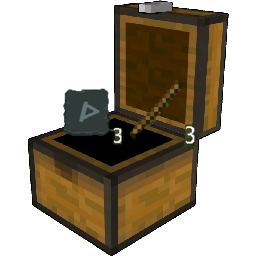
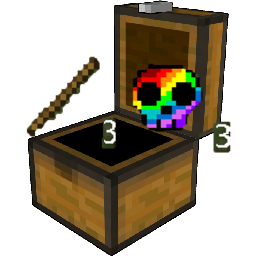
Added so that you can deliver items to chest and then opens door.

Changed region(s): [[0.0938, 0.2188, 0.8125, 0.5938], [0.8125, 0.4688, 0.9062, 0.625]]

diff --git a/src/Game/Entities/Statics/Chest.java b/src/Game/Entities/Statics/Chest.java
@@ -2,6 +2,7 @@ package Game.Entities.Statics;
 
 import Game.Entities.Creatures.Player;
 import Game.GameStates.State;
+import Game.Items.Item;
 import Main.Handler;
 import Resources.Images;
 import Worlds.BaseWorld;
@@ -21,7 +22,12 @@ public class Chest extends StaticEntity {
 
     private BaseWorld world;
     
-    BufferedImage chestStateImage;
+    private BufferedImage chestStateImage;
+    public static int skullsPicked = 0;
+    public static int stickesPicked = 0;
+    public static boolean ePressedStatic = false;
+    public static boolean completedQuest = false;
+    
 
     public Chest(Handler handler, float x, float y,BaseWorld world) {
         super(handler, x, y, 80, 125);
@@ -29,8 +35,8 @@ public class Chest extends StaticEntity {
         health=10000000;
         bounds.x=0;
         bounds.y=0;
-        bounds.height = 80;
         bounds.width = 125;
+        bounds.height = 80;
         
 
         ir.width = bounds.width;
@@ -50,43 +56,53 @@ public class Chest extends StaticEntity {
         if(isBeinghurt()){
         		chestStateImage = Images.openedChest;
             setHealth(10000000);
+            handler.getWorld().getEntityManager().getPlayer().itemsToChest();
+            
         }
 
         if(handler.getKeyManager().attbut){
             EP=true;
+            ePressedStatic = true;
 
         }else if(!handler.getKeyManager().attbut){
             EP=false;
+            ePressedStatic = false;
         }
         
+        if ((skullsPicked >= 3) && (stickesPicked) >=3) {
+        		completedQuest = true;
+        }
         
     }
+    
 
     @Override
     public void render(Graphics g) {
     		g.drawImage(chestStateImage,(int)(x-handler.getGameCamera().getxOffset()),(int)(y-handler.getGameCamera().getyOffset()),width,height,null);
-        checkForPlayer(g, handler.getWorld().getEntityManager().getPlayer());
+//        checkForPlayer(g, handler.getWorld().getEntityManager().getPlayer());
         if (chestStateImage == Images.openedChest) {
         		g.setColor(Color.BLACK);
-        		g.setFont(new Font("TimesRoman", Font.BOLD, 20));
-    			g.drawString("THESE ITEMS NEEDED:",(int)(x-handler.getGameCamera().getxOffset()-40),(int)(y-handler.getGameCamera().getyOffset()-10));
+        		g.setFont(new Font("Lucida", Font.BOLD, 20));
+    			g.drawString("Sticks:" + stickesPicked + "\nSkulls:" + skullsPicked,(int)(x-handler.getGameCamera().getxOffset()-10),(int)(y-handler.getGameCamera().getyOffset()-30));
+    			g.drawString("Items needed:",(int)(x-handler.getGameCamera().getxOffset()),(int)(y-handler.getGameCamera().getyOffset()-10));
         }
     }
 
-    private void checkForPlayer(Graphics g, Player p) {
-        Rectangle pr = p.getCollisionBounds(0,0);
-
-        if(ir.contains(pr) && !EP){
-            g.drawImage(Images.E,(int) x+width,(int) y+10,32,32,null);
-        }else if(ir.contains(pr) && EP){
-            g.drawImage(Images.EP,(int) x+width,(int) y+10,32,32,null);
-            g.drawImage(Images.loading,0,0,800,600,null);
-            handler.setWorld(world);
-
-        }
-
-
-    }
+//    private void checkForPlayer(Graphics g, Player p) {
+//        Rectangle pr = p.getCollisionBounds(0, 0);
+//
+//        if(ir.contains(pr) && !EP){
+//        		System.out.println("test");
+//            g.drawImage(Images.E,(int) x+width,(int) y+10,32,32,null);
+//        }else if(ir.contains(pr) && EP){
+//            g.drawImage(Images.EP,(int) x+width,(int) y+10,32,32,null);
+//            g.drawImage(Images.loading,0,0,800,600,null);
+//            handler.setWorld(world);
+//
+//        }
+//
+//
+//    }
 
     @Override
     public void die() {

diff --git a/src/Game/Entities/Creatures/Player.java b/src/Game/Entities/Creatures/Player.java
@@ -1,6 +1,7 @@
 package Game.Entities.Creatures;
 
 import Game.Entities.EntityBase;
+import Game.Entities.Statics.Chest;
 import Game.GameStates.State;
 import Game.Inventories.Inventory;
 import Game.Items.Item;
@@ -158,7 +159,7 @@ public class Player extends CreatureBase {
 
         }
         //ME
-      g.setFont(new Font("Lucida", Font.PLAIN, 13));//This is the default one so we can add string to other things.
+        g.setFont(new Font("Lucida", Font.PLAIN, 13));//This is the default one so we can add string to other things.
         //
         g.setColor(Color.white);
         g.drawString("Health: " + getHealth(),(int)(x-handler.getGameCamera().getxOffset()),(int)(y-handler.getGameCamera().getyOffset()-10));
@@ -363,5 +364,32 @@ public class Player extends CreatureBase {
 
     public SpellCastUI getSpellGUI() {
         return spellGUI;
+    }
+    
+    
+    //ME
+    public void itemsToChest() {
+    		if (!(Chest.ePressedStatic))
+    			return;
+        for (Item i : getInventory().getInventoryItems()) {
+        		int count = 0;
+        		while (count < i.getCount()){
+        			if (i.getName() == "Stick") {
+        				if (Chest.stickesPicked < 3) {
+	                    i.setCount(i.getCount() - 1);
+	                    Chest.stickesPicked ++;
+        				}
+                }else if (i.getName() == "Skull") {
+        				if (Chest.skullsPicked < 3) {
+	                    i.setCount(i.getCount() - 1);
+	                    Chest.skullsPicked ++;
+        				}
+                }
+        			count ++;
+        			
+        		}
+            
+        }
+        return;
     }
 }

diff --git a/src/Game/Entities/Statics/Door.java b/src/Game/Entities/Statics/Door.java
@@ -50,18 +50,22 @@ public class Door extends StaticEntity {
         }else if(!handler.getKeyManager().attbut){
             EP=false;
         }
+        
 
     }
 
     @Override
     public void render(Graphics g) {
-//        g.drawImage(Images.door,(int)(x-handler.getGameCamera().getxOffset()),(int)(y-handler.getGameCamera().getyOffset()),width,height,null);
-
-//        g.setColor(Color.black);
+    	if (Chest.completedQuest) {
+        g.drawImage(Images.door,(int)(x-handler.getGameCamera().getxOffset()),(int)(y-handler.getGameCamera().getyOffset()),width,height,null);
+        g.setColor(Color.black);
+    	}
         checkForPlayer(g, handler.getWorld().getEntityManager().getPlayer());
     }
 
     private void checkForPlayer(Graphics g, Player p) {
+    		if (!Chest.completedQuest)
+    			return;
         Rectangle pr = p.getCollisionBounds(0,0);
 
         if(ir.contains(pr) && !EP){

diff --git a/src/Game/Entities/Creatures/SkelyEnemy.java b/src/Game/Entities/Creatures/SkelyEnemy.java
@@ -191,6 +191,7 @@ public class SkelyEnemy extends CreatureBase  {
     @Override
     public void die() {
     		System.out.println("ded");
-    		handler.getWorld().getItemManager().addItem(Item.newSkullItem.createNew((int)x + bounds.x + (randint.nextInt(96) -32),(int)y + bounds.y+(randint.nextInt(32) -32),(randint.nextInt(3) +1)));
+//    		handler.getWorld().getItemManager().addItem(Item.newSkullItem.createNew((int)x + bounds.x + (randint.nextInt(96) -32),(int)y + bounds.y+(randint.nextInt(32) -32),(randint.nextInt(3) +1)));
+    		handler.getWorld().getItemManager().addItem(Item.newSkullItem.createNew((int)x + bounds.x + (randint.nextInt(96) -32),(int)y + bounds.y+(randint.nextInt(32) -32),3));
     }
 }

diff --git a/src/Game/Items/Item.java b/src/Game/Items/Item.java
@@ -30,8 +30,8 @@ public class Item {
     public static Item woodItem = new Item(Images.items[0],"Wood",0);
     public static Item rockItem = new Item(Images.blocks[14],"Rock",1);
     public static Item fireRuneItem = new Item(Images.Runes[2],"Fire Rune",2);
-    public static Item newStickItem = new Item(Images.newStick,"Stick",0);
-    public static Item newSkullItem = new Item(Images.newSkull,"Skull",0);
+    public static Item newStickItem = new Item(Images.newStick,"Stick",3);
+    public static Item newSkullItem = new Item(Images.newSkull,"Skull",4);
 
 
     //class

diff --git a/src/Game/Inventories/Inventory.java b/src/Game/Inventories/Inventory.java
@@ -77,6 +77,9 @@ public class Inventory {
 
     //Inventory Methods
     private void renderItems(Graphics g) {
+    		//ME
+        g.setFont(new Font("Lucida", Font.PLAIN, 13));//This is the default one so we can add string to other things.
+        //
 
         if (inventoryItems.size() == 1) {
             g.drawImage(inventoryItems.get(0).getTexture(), 25, 24, inventoryItems.get(0).getWidth(), inventoryItems.get(0).getHeight(), null);

diff --git a/src/Game/Entities/Statics/Bush.java b/src/Game/Entities/Statics/Bush.java
@@ -58,5 +58,12 @@ public class Bush extends Tree{
      g.drawImage(Images.bush,(int)(x-handler.getGameCamera().getxOffset()),(int)(y-handler.getGameCamera().getyOffset()),75,96,null);
 
  }
+ 
+ @Override
+ public void die() {
+     handler.getWorld().getItemManager().addItem(Item.newStickItem.createNew((int)x + bounds.x,(int)y + bounds.y,3));
+
+
+ }
 
 }

diff --git a/src/Game/Entities/Statics/Tree.java b/src/Game/Entities/Statics/Tree.java
@@ -26,7 +26,7 @@ public class Tree extends StaticEntity {
         bounds.y=85;
         bounds.width = 36;
         bounds.height = 48;
-        health=16;
+        health=1;
 
         try {
             audioFile = new File("res/music/Chopping.wav");

diff --git a/src/Game/Entities/Statics/Rock.java b/src/Game/Entities/Statics/Rock.java
@@ -31,7 +31,7 @@ public class Rock extends StaticEntity {
         bounds.y=0;
         bounds.width = 64;
         bounds.height = 64;
-        health=1;
+        health=2;
 
         try {
             audioFile = new File("res/music/Pickaxe.wav");
